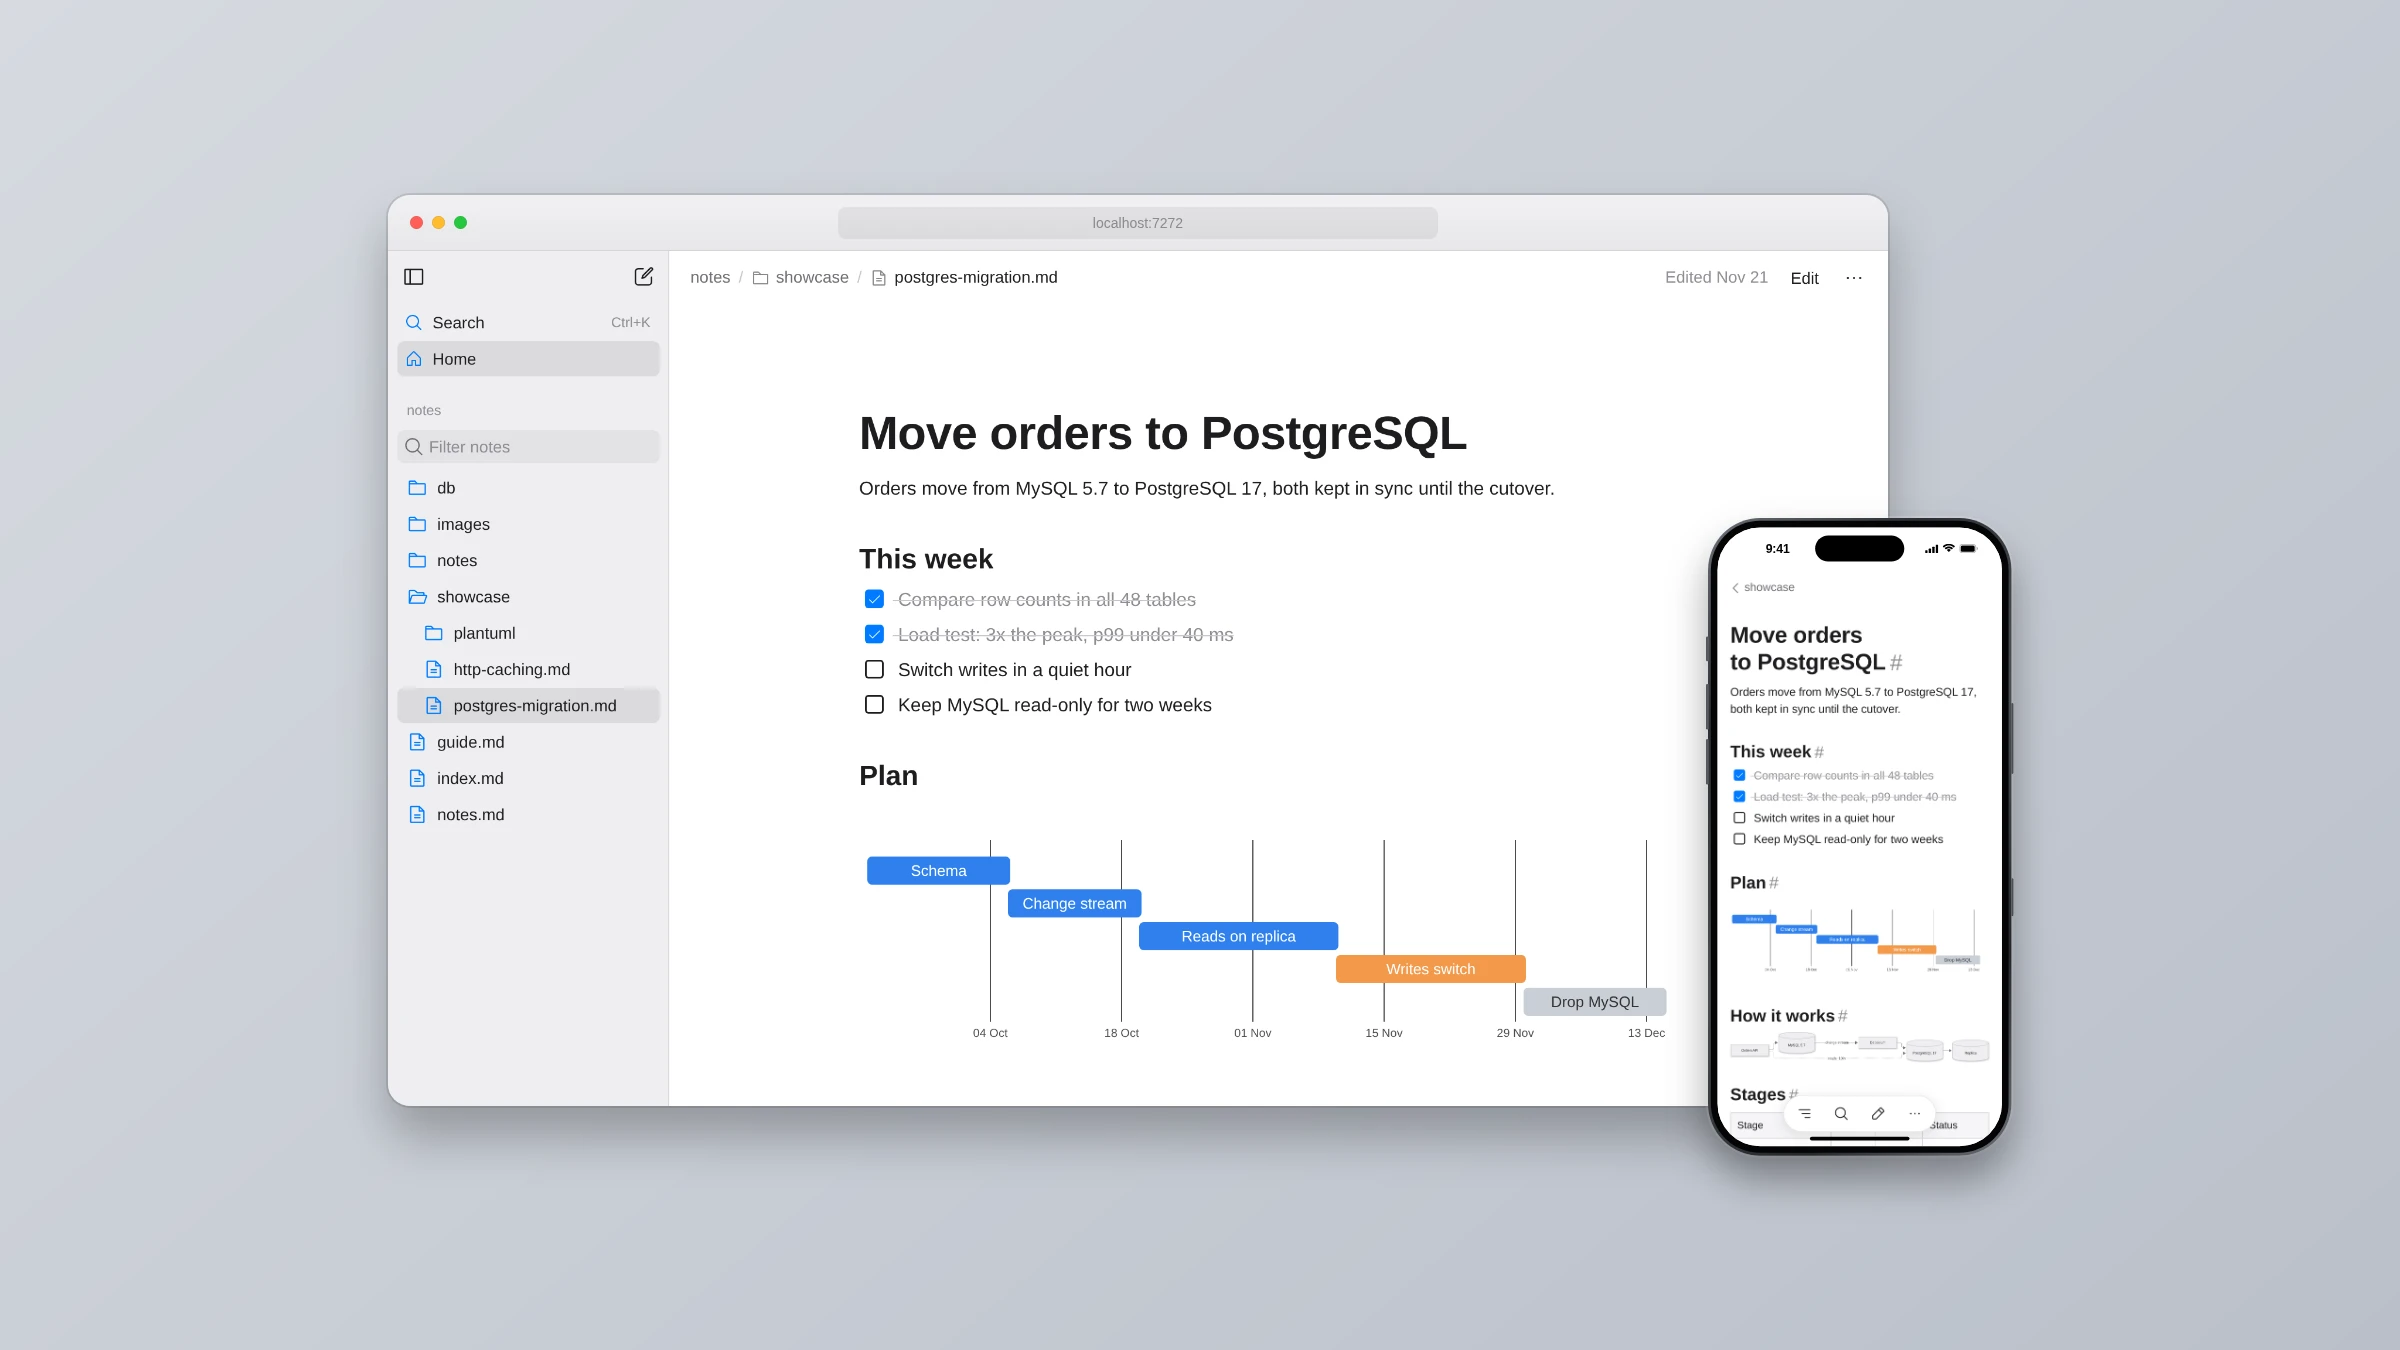
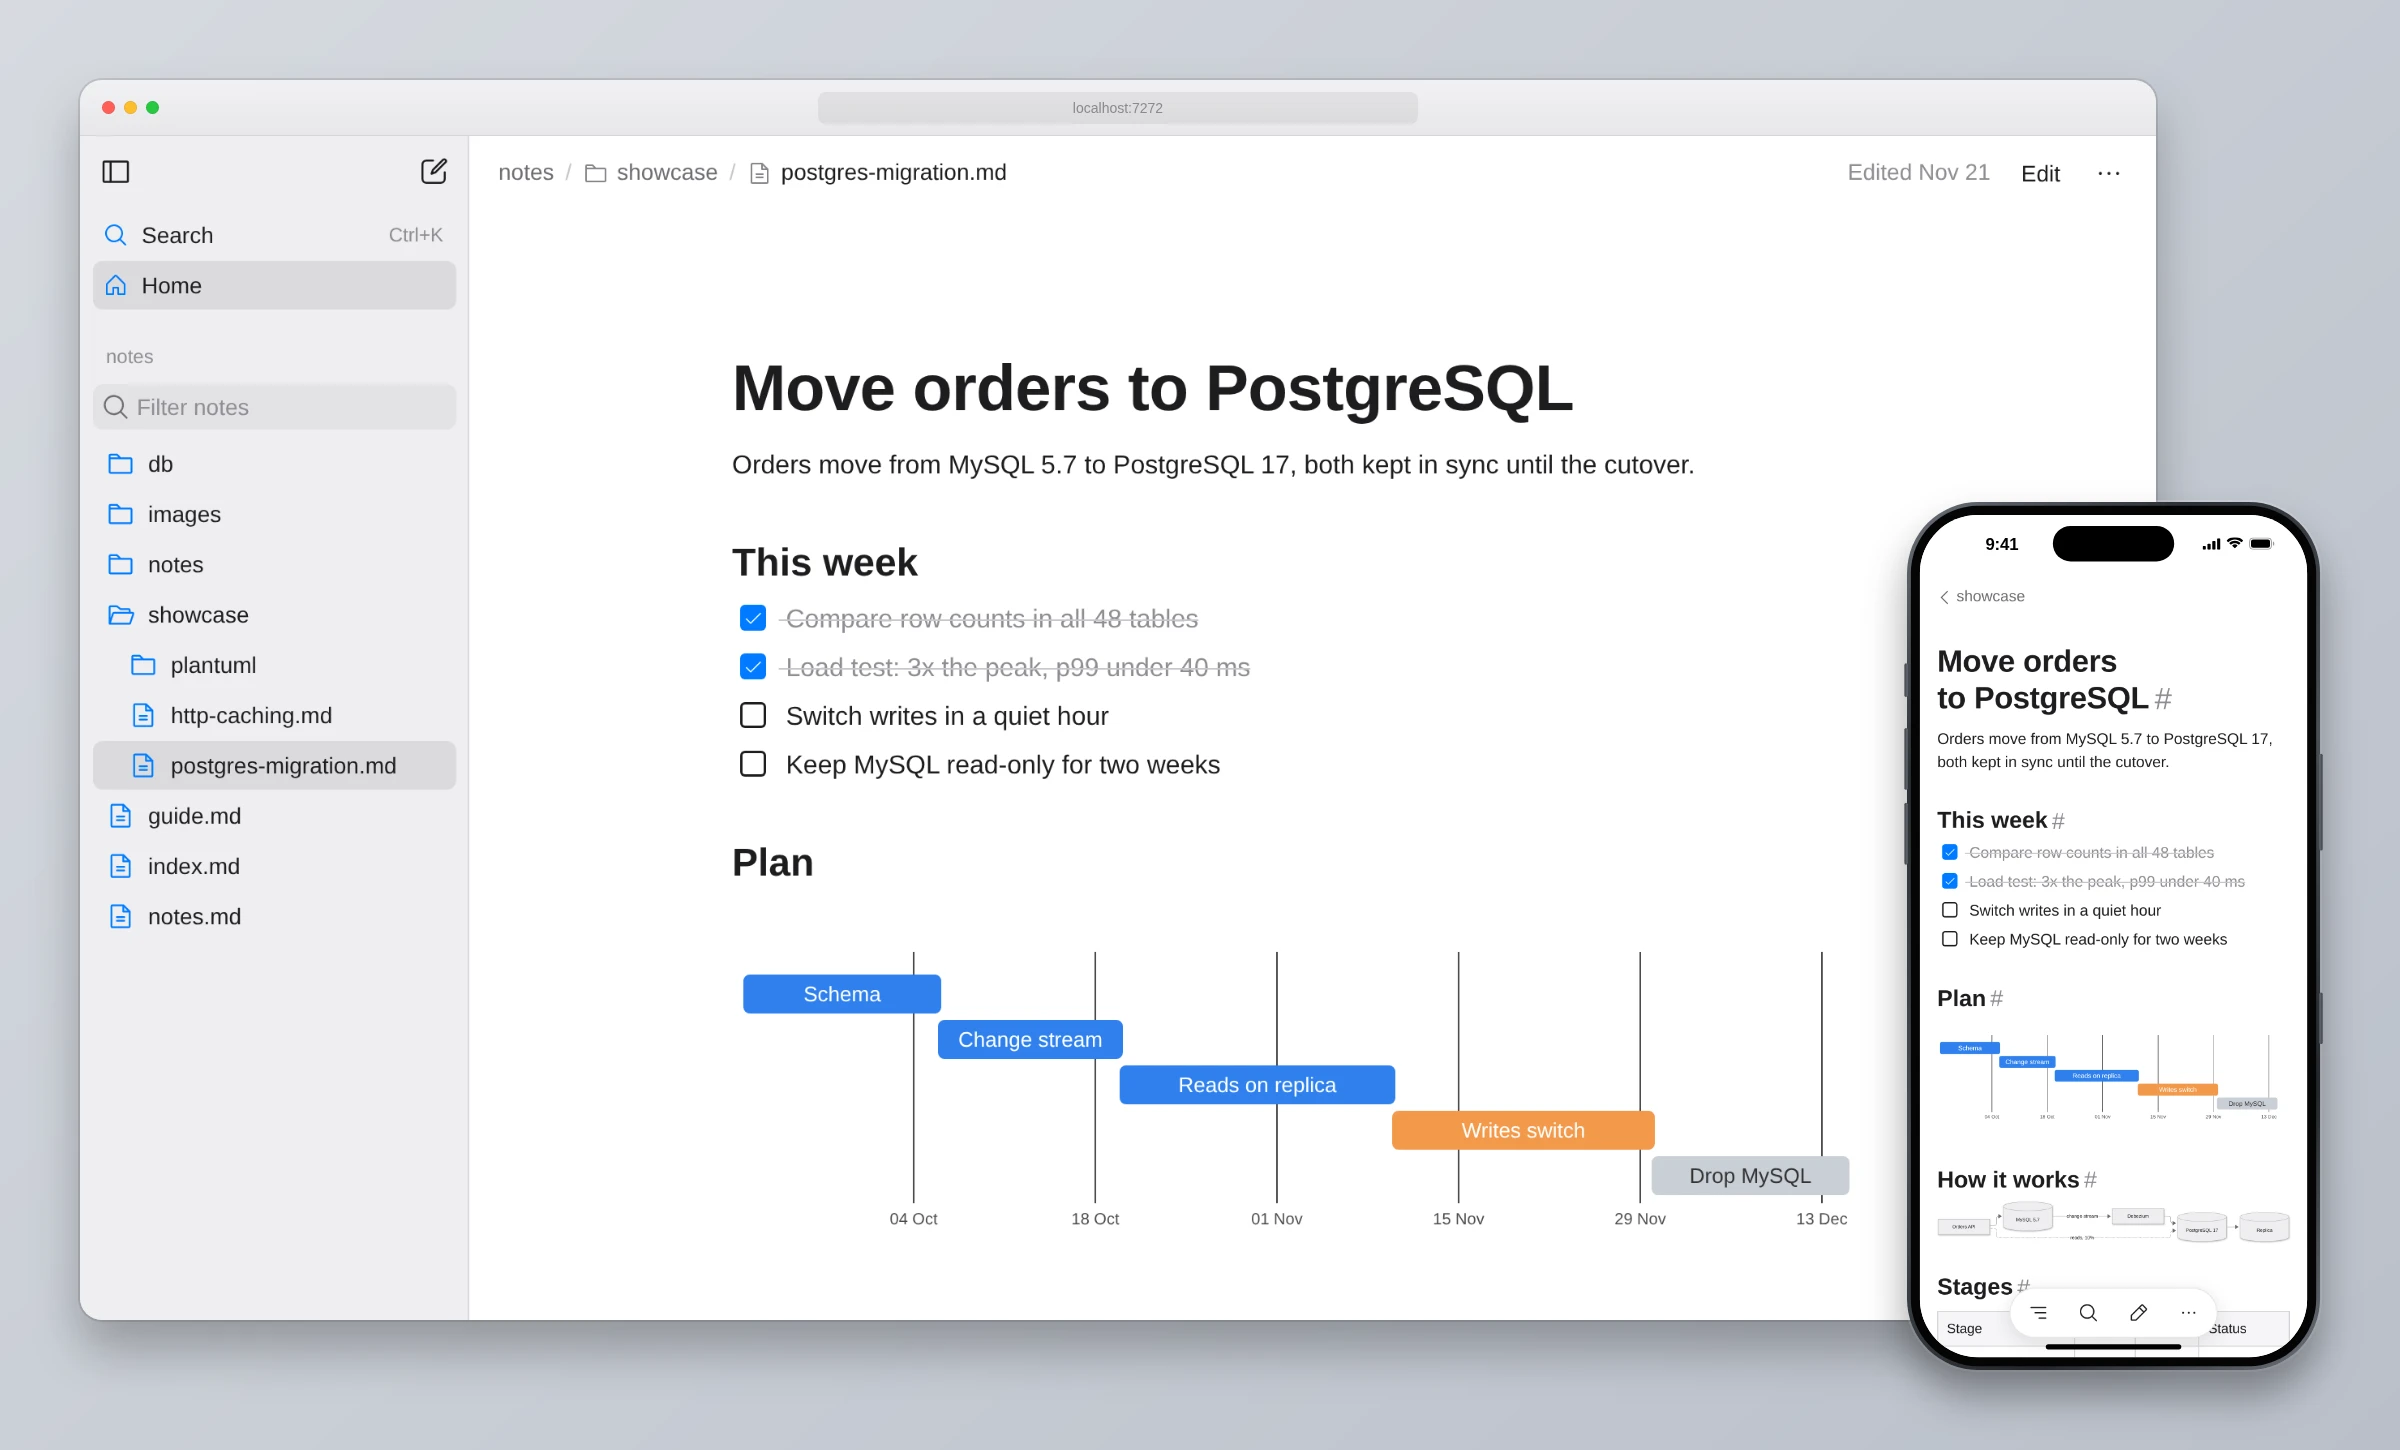
wip

diff --git a/scripts/readme-shots/shoot.js b/scripts/readme-shots/shoot.js
@@ -11,7 +11,7 @@ const NOTE = 'showcase/postgres-migration.md';
 const SPACE = 'notes';
 const DESKTOP = {width: 1280, height: 800, scale: 2, cropMargin: 4};
 const PHONE = {width: 402, height: 874, statusBar: 62, homeIndicator: 34, scale: 3};
-const HERO = {width: 2400, height: 1350, windowWidth: 1500, titleBar: 56, phoneToWindow: 0.7, overlap: 0.12, phoneBelow: 50};
+const HERO = {width: 2400, margin: 80, titleBar: 56, phoneToWindow: 0.7, overlap: 0.12, phoneBelow: 50};
 const PHONE_FRAME = {width: 640, height: 1345};
 const WEBP_QUALITY = 0.9;
 const READY_TIMEOUT_MS = 60_000;
@@ -125,30 +125,36 @@ function dataURL(png) {
 }
 
 function layout(desktopHeight) {
-    const windowHeight = HERO.titleBar + Math.round(desktopHeight * HERO.windowWidth / DESKTOP.width);
+    const phonePerWindow = (PHONE_FRAME.width * HERO.phoneToWindow) / PHONE_FRAME.height;
+    const desktopRatio = desktopHeight / DESKTOP.width;
+    const groupWidth = HERO.width - 2 * HERO.margin;
+    const windowWidth = Math.round((groupWidth - phonePerWindow * HERO.titleBar) / (1 - HERO.overlap + phonePerWindow * desktopRatio));
+    const windowHeight = HERO.titleBar + Math.round(desktopRatio * windowWidth);
     const phoneScale = (windowHeight * HERO.phoneToWindow) / PHONE_FRAME.height;
-    const phoneWidth = PHONE_FRAME.width * phoneScale;
     const phoneHeight = PHONE_FRAME.height * phoneScale;
-    const overlap = HERO.windowWidth * HERO.overlap;
-    const left = Math.round((HERO.width - (HERO.windowWidth + phoneWidth - overlap)) / 2);
-    const top = Math.round((HERO.height - (windowHeight + HERO.phoneBelow)) / 2);
-    return [
+    const height = windowHeight + HERO.phoneBelow + 2 * HERO.margin;
+    const css = [
         ':root {',
-        `  --window-left: ${left}px;`,
-        `  --window-top: ${top}px;`,
-        `  --window-width: ${HERO.windowWidth}px;`,
+        `  --canvas-width: ${HERO.width}px;`,
+        `  --canvas-height: ${height}px;`,
+        `  --window-left: ${HERO.margin}px;`,
+        `  --window-top: ${HERO.margin}px;`,
+        `  --window-width: ${windowWidth}px;`,
         `  --title-bar: ${HERO.titleBar}px;`,
-        `  --phone-left: ${Math.round(left + HERO.windowWidth - overlap)}px;`,
-        `  --phone-top: ${Math.round(top + windowHeight + HERO.phoneBelow - phoneHeight)}px;`,
+        `  --phone-left: ${Math.round(HERO.margin + windowWidth * (1 - HERO.overlap))}px;`,
+        `  --phone-top: ${Math.round(HERO.margin + windowHeight + HERO.phoneBelow - phoneHeight)}px;`,
         `  --phone-scale: ${phoneScale.toFixed(4)};`,
         '}',
     ].join('\n');
+    return {css, width: HERO.width, height};
 }
 
-function heroHTML(scheme, desktop, phone) {
+function heroHTML(scheme, placed, desktop, phone) {
     return fs.readFileSync(path.join(__dirname, 'hero.html'), 'utf8')
         .replace('{{scheme}}', scheme)
-        .replace('/* {{layout}} */', layout(desktop.height))
+        .replace('/* {{layout}} */', placed.css)
+        .replace('{{canvas-width}}', String(placed.width))
+        .replace('{{canvas-height}}', String(placed.height))
         .replace('{{desktop}}', dataURL(desktop.shot))
         .replace('{{phone}}', dataURL(phone.shot))
         .replaceAll('{{status-bg}}', phone.background);
@@ -169,9 +175,10 @@ async function toWebP(page, png) {
 }
 
 async function composeHero(browser, scheme, desktop, phone) {
-    const context = await browser.newContext({viewport: HERO, deviceScaleFactor: 1});
+    const placed = layout(desktop.height);
+    const context = await browser.newContext({viewport: {width: placed.width, height: placed.height}, deviceScaleFactor: 1});
     const page = await context.newPage();
-    await page.setContent(heroHTML(scheme, desktop, phone));
+    await page.setContent(heroHTML(scheme, placed, desktop, phone));
     await page.evaluate(() => Promise.all([...document.images].map((img) => img.decode())));
     const png = await page.screenshot();
     const webp = await toWebP(page, png);

diff --git a/scripts/readme-shots/hero.html b/scripts/readme-shots/hero.html
@@ -33,8 +33,8 @@
 
   html, body {
     margin: 0;
-    width: 2400px;
-    height: 1350px;
+    width: var(--canvas-width);
+    height: var(--canvas-height);
     overflow: hidden;
   }
 
@@ -207,7 +207,7 @@
 </style>
 </head>
 <body>
-  <canvas id="background" width="2400" height="1350"></canvas>
+  <canvas id="background" width="{{canvas-width}}" height="{{canvas-height}}"></canvas>
   <script>
     (() => {
       const dark = document.documentElement.dataset.scheme === 'dark';

diff --git a/README.md b/README.md
@@ -2,6 +2,12 @@
 
 Markdown notes in any browser, from a folder or a git repository.
 
+[![Release](https://img.shields.io/github/v/release/aleksey925/scrawl?style=flat-square&color=2f80ed)](https://github.com/aleksey925/scrawl/releases)
+[![License](https://img.shields.io/github/license/aleksey925/scrawl?style=flat-square&color=555)](LICENSE)
+![Go](https://img.shields.io/badge/Go-00ADD8?style=flat-square&logo=go&logoColor=white)
+![Docker](https://img.shields.io/badge/docker-ghcr.io-2496ED?style=flat-square&logo=docker&logoColor=white)
+![PWA](https://img.shields.io/badge/PWA-installable-5A0FC8?style=flat-square&logo=pwa&logoColor=white)
+
 scrawl lets you read and edit your notes from a browser, on a laptop or a
 phone. Point it at a folder or a git repository and it serves the notes there
 as they are: no database, no import, no format of its own. The files on disk
